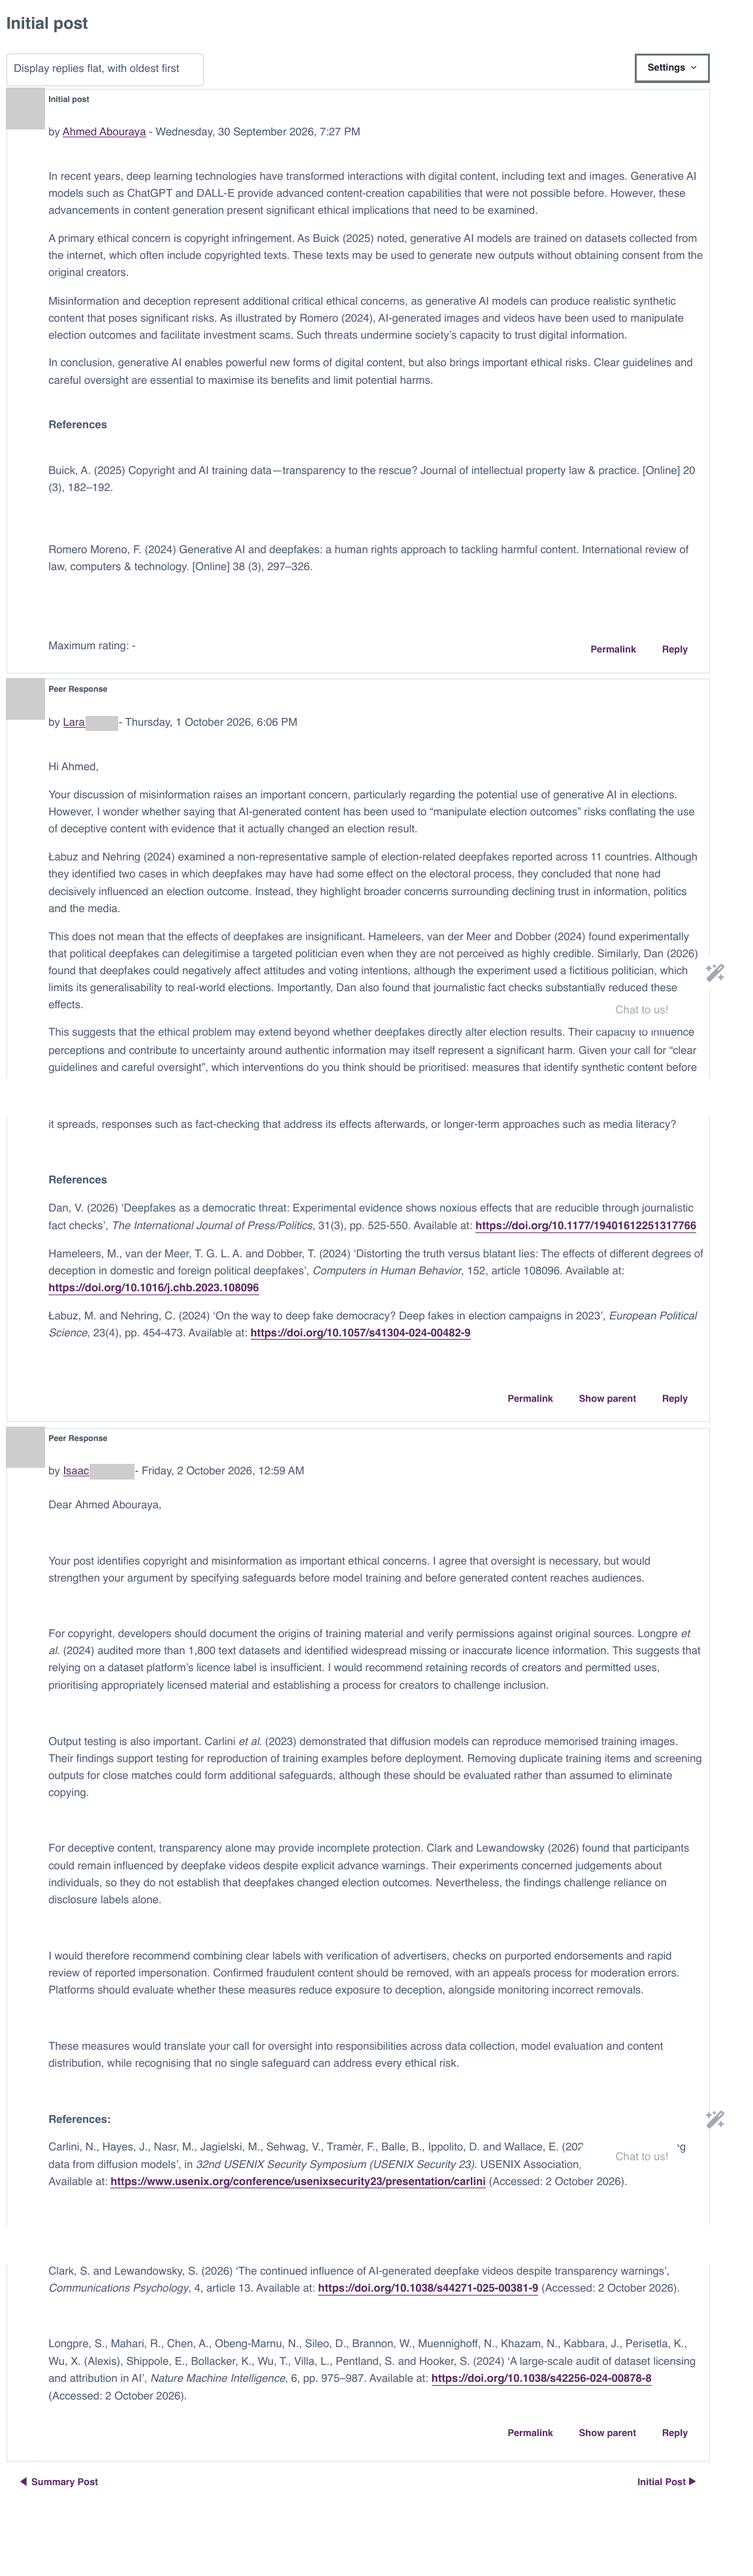
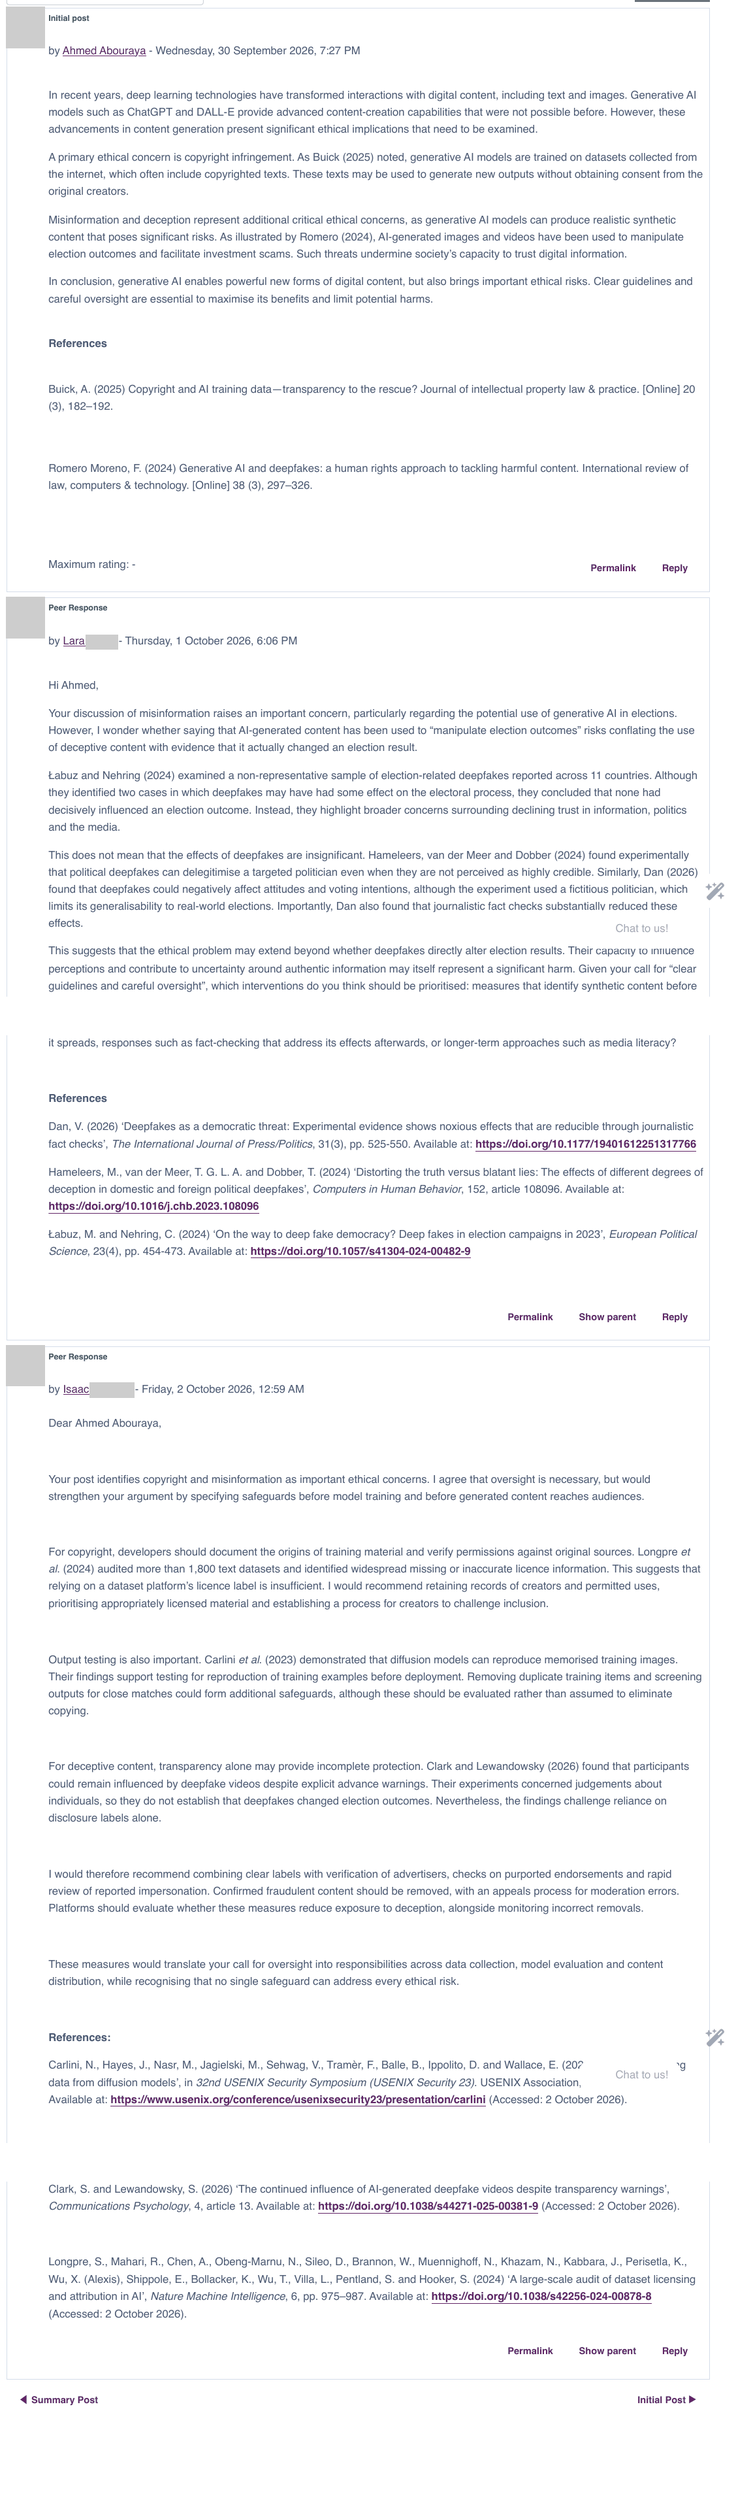
Discussions: takeaway callout and post cards; fix stylesheet clash
The local build let the github-pages default theme's style.scss overwrite
assets/css/style.css, so pages rendered unstyled. Renaming the stylesheet to
portfolio.css removes the clash. Screenshots now start at the first post,
without Moodle's view controls.

Changed region(s): [[0.0, 0.0, 0.9367, 0.9667], [0.9367, 0.8108, 0.9679, 0.842]]

diff --git a/assets/css/portfolio.css b/assets/css/portfolio.css
@@ -157,9 +157,63 @@ main figure { margin: 1.25rem 0; }
 main figure img { display: block; background: #fff; border: 1px solid var(--border); }
 main figcaption { margin-top: .5rem; font-size: .88rem; color: var(--text-muted); }
 
-/* Tall forum screenshots scroll inside a frame instead of filling the page. */
-.screenshot { max-height: 36rem; overflow-y: auto; border: 1px solid var(--border); }
-.screenshot img { width: 100%; border: 0; }
+/* ---------- Discussions: takeaways and post cards ---------- */
+
+/* The reflective takeaway of a discussion, set apart from the evidence below. */
+.learned {
+  border: 1px solid var(--border);
+  border-left: 3px solid var(--accent);
+  border-radius: var(--radius);
+  background: var(--accent-soft);
+  padding: 1rem 1.25rem;
+}
+.learned-title {
+  margin: 0 0 .5rem;
+  font-size: .8rem;
+  font-weight: 650;
+  letter-spacing: .06em;
+  text-transform: uppercase;
+  color: var(--accent);
+}
+.learned ul { margin: 0; padding-left: 1.1rem; }
+.prose > .learned { grid-column: 1 / -1; margin: 0 0 1.25rem; }
+
+/* One card per forum post: the top of the screenshot as a preview, and the
+   full-size image a click away. Spans the whole content width. */
+.prose > .shots {
+  grid-column: 1 / -1;
+  display: grid;
+  grid-template-columns: repeat(auto-fit, minmax(15rem, 1fr));
+  gap: 1rem;
+  margin: 0 0 1.25rem;
+}
+.shot {
+  display: flex;
+  flex-direction: column;
+  border: 1px solid var(--border);
+  border-radius: var(--radius);
+  overflow: hidden;
+  background: var(--bg);
+  color: inherit;
+  text-decoration: none;
+  transition: border-color .15s, box-shadow .15s;
+}
+.shot:hover, .shot:focus-visible { border-color: var(--accent); box-shadow: 0 2px 12px rgba(0, 0, 0, .08); }
+main .shot img {
+  display: block;
+  width: 100%;
+  height: 14rem;
+  object-fit: cover;
+  object-position: top;
+  background: #fff;
+  border: 0;
+  border-bottom: 1px solid var(--border);
+  border-radius: 0;
+}
+.shot-text { padding: .75rem .9rem .85rem; }
+.shot-title { display: block; font-weight: 650; line-height: 1.35; }
+.shot-meta { display: block; margin-top: .2rem; font-size: .85rem; color: var(--text-muted); }
+.shot-open { display: block; margin-top: .45rem; font-size: .82rem; color: var(--accent); }
 
 .muted { color: var(--text-muted); }
 .meta { display: flex; flex-wrap: wrap; gap: .6rem; align-items: center; font-size: .88rem; margin: .5rem 0; }

diff --git a/_layouts/default.html b/_layouts/default.html
@@ -5,7 +5,7 @@
   <meta name="viewport" content="width=device-width, initial-scale=1">
   <title>{% if page.title %}{{ page.title | escape }} · {% endif %}{{ site.title | escape }}</title>
   <meta name="description" content="{{ page.description | default: site.description | strip_newlines }}">
-  <link rel="stylesheet" href="{{ '/assets/css/style.css' | relative_url }}">
+  <link rel="stylesheet" href="{{ '/assets/css/portfolio.css' | relative_url }}">
 </head>
 <body>
   <a class="skip-link" href="#content">Skip to content</a>

diff --git a/modules/intelligent-agents/discussions.md b/modules/intelligent-agents/discussions.md
@@ -5,39 +5,19 @@ module: intelligent-agents
 nav_order: 2
 permalink: /modules/intelligent-agents/discussions/
 summary: >-
-  My posts in the collaborative discussion forum, and what I learned from each
-  discussion. Evidences LO1 and LO4.
+  What I learned from each collaborative discussion, with my posts as
+  screenshots from the module forum. Evidences LO1 and LO4.
 ---
 
-Screenshots from the module forum; peers' surnames and photos are hidden. Scroll
-inside an image, or select it to open it full size.
+Peers' surnames and photos are hidden in the screenshots. Select a post to open
+it full size.
 
 ## Discussion 1 — Agent-Based Systems in contemporary organisations
 
 <p class="meta"><span class="badge badge--completed">completed</span> <span class="muted">Units 1–3 · 5–16 August 2026 · <a href="../evidence/discussion-1/">text version</a></span></p>
 
-### Initial post and peer responses
-
-<figure>
-  <div class="screenshot"><a href="{{ '/assets/img/intelligent-agents/discussions/d1-initial-post.png' | relative_url }}"><img src="{{ '/assets/img/intelligent-agents/discussions/d1-initial-post.png' | relative_url }}" alt="Forum screenshot: my initial post on agent-based systems in contemporary organisations, followed by responses from Isaac S. and Kapinga D." loading="lazy"></a></div>
-  <figcaption>My initial post (5 August 2026), with responses from Isaac S. (6 August) and Kapinga D. (16 August).</figcaption>
-</figure>
-
-### Summary post
-
-<figure>
-  <div class="screenshot"><a href="{{ '/assets/img/intelligent-agents/discussions/d1-summary-post.png' | relative_url }}"><img src="{{ '/assets/img/intelligent-agents/discussions/d1-summary-post.png' | relative_url }}" alt="Forum screenshot: my summary post for Discussion 1." loading="lazy"></a></div>
-  <figcaption>My summary post (16 August 2026).</figcaption>
-</figure>
-
-### My response to a peer
-
-<figure>
-  <div class="screenshot"><a href="{{ '/assets/img/intelligent-agents/discussions/d1-peer-response.png' | relative_url }}"><img src="{{ '/assets/img/intelligent-agents/discussions/d1-peer-response.png' | relative_url }}" alt="Forum screenshot: Luis T.'s initial post on multi-agent systems in manufacturing, my response, and the replies that followed." loading="lazy"></a></div>
-  <figcaption>My response (9 August 2026) to Luis T.'s post on multi-agent systems in manufacturing, with his post and the replies that followed.</figcaption>
-</figure>
-
-### What I learned
+<div class="learned" markdown="1">
+<p class="learned-title">What I learned</p>
 
 - **Reliability is an architecture problem, not only a model problem.** Isaac's
   three controls showed that errors spread at the handoffs between agents, so
@@ -48,32 +28,29 @@ inside an image, or select it to open it full size.
   remove a usability barrier introduced hallucination. The thread ended on
   central governance with decentralised execution, the hybrid ScholarPlan uses.
 
+</div>
+
+<div class="shots">
+  <a class="shot" href="{{ '/assets/img/intelligent-agents/discussions/d1-initial-post.png' | relative_url }}">
+    <img src="{{ '/assets/img/intelligent-agents/discussions/d1-initial-post.png' | relative_url }}" alt="Forum screenshot: my initial post on agent-based systems, with responses from Isaac S. and Kapinga D." loading="lazy">
+    <span class="shot-text"><span class="shot-title">Initial post and peer responses</span><span class="shot-meta">5 Aug 2026 · replies from Isaac S. and Kapinga D.</span><span class="shot-open">Open full size →</span></span>
+  </a>
+  <a class="shot" href="{{ '/assets/img/intelligent-agents/discussions/d1-summary-post.png' | relative_url }}">
+    <img src="{{ '/assets/img/intelligent-agents/discussions/d1-summary-post.png' | relative_url }}" alt="Forum screenshot: my summary post for Discussion 1." loading="lazy">
+    <span class="shot-text"><span class="shot-title">Summary post</span><span class="shot-meta">16 Aug 2026</span><span class="shot-open">Open full size →</span></span>
+  </a>
+  <a class="shot" href="{{ '/assets/img/intelligent-agents/discussions/d1-peer-response.png' | relative_url }}">
+    <img src="{{ '/assets/img/intelligent-agents/discussions/d1-peer-response.png' | relative_url }}" alt="Forum screenshot: Luis T.'s post on multi-agent systems in manufacturing, my response, and the replies that followed." loading="lazy">
+    <span class="shot-text"><span class="shot-title">My response to a peer</span><span class="shot-meta">9 Aug 2026 · in Luis T.'s thread on manufacturing</span><span class="shot-open">Open full size →</span></span>
+  </a>
+</div>
+
 ## Discussion 3 — Deep learning and the ethics of generative AI
 
 <p class="meta"><span class="badge badge--completed">completed</span> <span class="muted">30 September – 13 October 2026 · <a href="../evidence/discussion-3/">text version</a></span></p>
 
-### Initial post and peer responses
-
-<figure>
-  <div class="screenshot"><a href="{{ '/assets/img/intelligent-agents/discussions/d3-initial-post.png' | relative_url }}"><img src="{{ '/assets/img/intelligent-agents/discussions/d3-initial-post.png' | relative_url }}" alt="Forum screenshot: my initial post on the ethics of generative AI, followed by responses from Lara K. and Isaac S." loading="lazy"></a></div>
-  <figcaption>My initial post (30 September 2026), with responses from Lara K. (1 October) and Isaac S. (2 October).</figcaption>
-</figure>
-
-### Summary post
-
-<figure>
-  <div class="screenshot"><a href="{{ '/assets/img/intelligent-agents/discussions/d3-summary-post.png' | relative_url }}"><img src="{{ '/assets/img/intelligent-agents/discussions/d3-summary-post.png' | relative_url }}" alt="Forum screenshot: my summary post for Discussion 3." loading="lazy"></a></div>
-  <figcaption>My summary post (13 October 2026).</figcaption>
-</figure>
-
-### My response to a peer
-
-<figure>
-  <div class="screenshot"><a href="{{ '/assets/img/intelligent-agents/discussions/d3-peer-response.png' | relative_url }}"><img src="{{ '/assets/img/intelligent-agents/discussions/d3-peer-response.png' | relative_url }}" alt="Forum screenshot: Isaac S.'s initial post, my response, Yasmin A.'s response and Isaac's summary post." loading="lazy"></a></div>
-  <figcaption>My response (4 October 2026) to Isaac S.'s post, with his post, Yasmin A.'s response and his summary.</figcaption>
-</figure>
-
-### What I learned
+<div class="learned" markdown="1">
+<p class="learned-title">What I learned</p>
 
 - **I overstated my evidence.** Lara showed that deepfakes have been *used*
   around elections, not shown to *change* results. My summary post corrected
@@ -84,3 +61,20 @@ inside an image, or select it to open it full size.
 - **Naming a cost moves a discussion.** Isaac's summary built on my point about
   the trade-offs of watermarking. A watermark can confirm machine generation,
   but never human authorship.
+
+</div>
+
+<div class="shots">
+  <a class="shot" href="{{ '/assets/img/intelligent-agents/discussions/d3-initial-post.png' | relative_url }}">
+    <img src="{{ '/assets/img/intelligent-agents/discussions/d3-initial-post.png' | relative_url }}" alt="Forum screenshot: my initial post on the ethics of generative AI, with responses from Lara K. and Isaac S." loading="lazy">
+    <span class="shot-text"><span class="shot-title">Initial post and peer responses</span><span class="shot-meta">30 Sep 2026 · replies from Lara K. and Isaac S.</span><span class="shot-open">Open full size →</span></span>
+  </a>
+  <a class="shot" href="{{ '/assets/img/intelligent-agents/discussions/d3-summary-post.png' | relative_url }}">
+    <img src="{{ '/assets/img/intelligent-agents/discussions/d3-summary-post.png' | relative_url }}" alt="Forum screenshot: my summary post for Discussion 3." loading="lazy">
+    <span class="shot-text"><span class="shot-title">Summary post</span><span class="shot-meta">13 Oct 2026</span><span class="shot-open">Open full size →</span></span>
+  </a>
+  <a class="shot" href="{{ '/assets/img/intelligent-agents/discussions/d3-peer-response.png' | relative_url }}">
+    <img src="{{ '/assets/img/intelligent-agents/discussions/d3-peer-response.png' | relative_url }}" alt="Forum screenshot: Isaac S.'s post, my response, Yasmin A.'s response and Isaac's summary." loading="lazy">
+    <span class="shot-text"><span class="shot-title">My response to a peer</span><span class="shot-meta">4 Oct 2026 · in Isaac S.'s thread</span><span class="shot-open">Open full size →</span></span>
+  </a>
+</div>

diff --git a/README.md b/README.md
@@ -15,7 +15,7 @@ _config.yml                  site config, top nav
 _data/modules.yml            module metadata: status, learning outcomes, skills
 _layouts/                    default, page, module
 _includes/module-cards.html  module card grid, used on Home and Modules
-assets/css/style.css         the whole theme (light + dark)
+assets/css/portfolio.css         the whole theme (light + dark)
 assets/img/<module>/         diagrams and screenshots
 index.md  modules/  skills.md  about.md
 modules/<module>/            one page per portfolio section

diff --git a/modules/intelligent-agents/index.md b/modules/intelligent-agents/index.md
@@ -30,11 +30,11 @@ Prose only; tables, code, captions and references are excluded.
 | --- | --: |
 | Overview | 9 |
 | Artefacts | 133 |
-| Discussions | 200 |
+| Discussions | 194 |
 | Team | 38 |
 | Project evaluation | 469 |
 | Case studies | 616 |
-| **Total** (limit 1,500) | **1,465** |
+| **Total** (limit 1,500) | **1,459** |
 | [Reflection](reflection/) (limit 1,000) | **921** |
 
 <!-- wc:end -->
